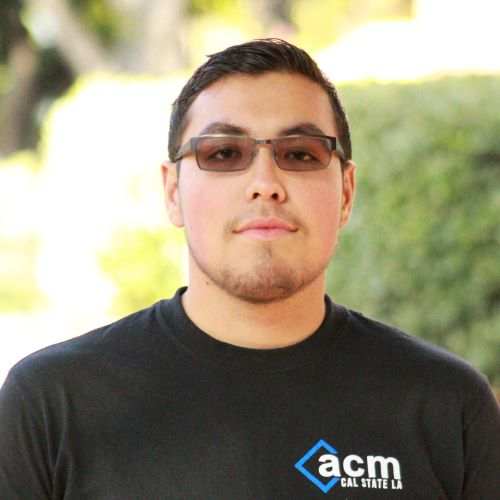
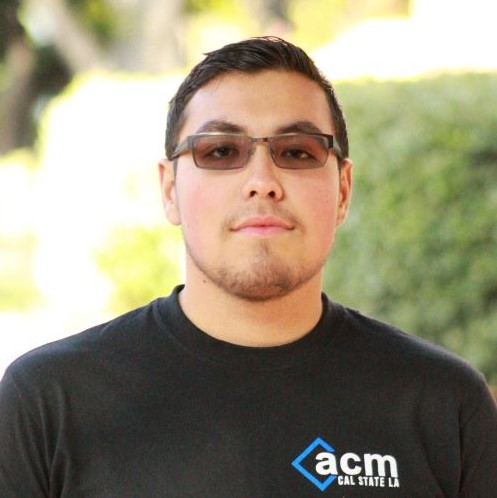
ACMW-0063: Used smaller images

diff --git a/src/components/programs/Programs.js b/src/components/programs/Programs.js
@@ -140,8 +140,8 @@ class Programs extends React.Component {
                                                     <h2><span className="highlight-text">Tutoring</span></h2>
 
                                                     <Container>
-                                                        <img src={require('./pictures/tutoring.PNG')} alt="tutoring 2018" onClick={() => this.setState({ showTutoring: true })} className="programs-images"></img>
-                                                        <ModalImage image='./pictures/tutoring.PNG' show={this.state.showTutoring} onHide={() => this.setState({ showTutoring: false })} />
+                                                        <img src={require('./pictures/tutoring.jpg')} alt="tutoring 2018" onClick={() => this.setState({ showTutoring: true })} className="programs-images"></img>
+                                                        <ModalImage image='./pictures/tutoring.jpg' show={this.state.showTutoring} onHide={() => this.setState({ showTutoring: false })} />
                                                     </Container>
 
                                                 </Tab.Pane>
